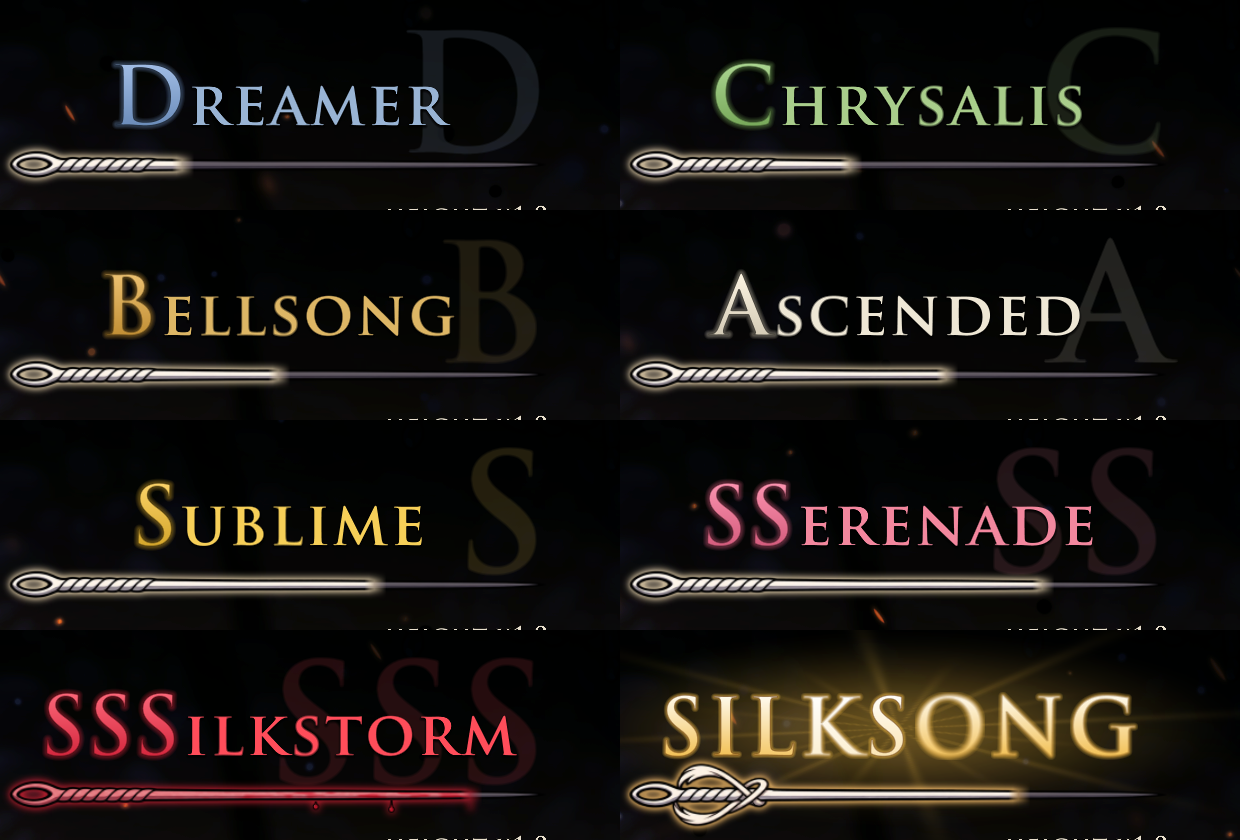
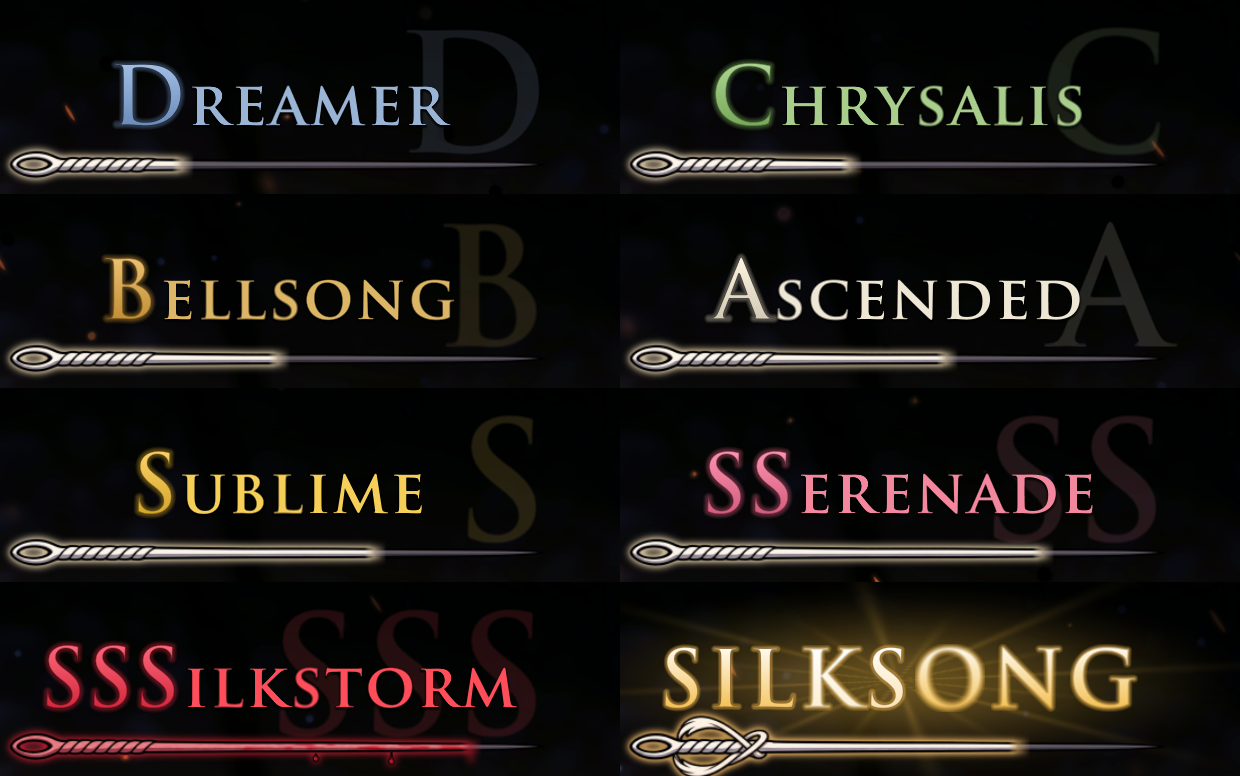
Docs: Show a real fight and new stills in the README

diff --git a/README.ru.md b/README.ru.md
@@ -1,5 +1,5 @@
 <p align="center">
-  <img src="docs/images/hero.jpg" alt="Хорнет делает пого на пилигриме на ранге SUBLIME, шкала стиля в правом верхнем углу" width="100%">
+  <img src="docs/images/hero.jpg" alt="Хорнет у заснеженной ограды на горе Фэй, шкала на SILKSONG в правом верхнем углу, в ленте RAMPAGE, GIT GUD и другие бонусы" width="100%">
 </p>
 
 <h1 align="center">Stylemeter</h1>
@@ -34,8 +34,9 @@ Stylemeter следит за тем, как сражается Хорнет, и 
 тает.
 
 <p align="center">
-  <img src="docs/images/climb.webp" alt="Цепочка пого на пилигриме поднимает шкалу с BELLSONG через ASCENDED и SUBLIME до SSERENADE, лента показывает каждый бонус" width="860">
-  <br><sub>Настоящая цепочка пого в игре: BELLSONG, ASCENDED, SUBLIME, SSERENADE, потом добивание.</sub>
+  <img src="docs/images/fight.webp" alt="Десять секунд боя на горе Фэй: брызги крови, когда шкала доходит до SSSILKSTORM, вспышка на SILKSONG, удар разрезает его пополам, и снова вспышка" width="860">
+  <br><sub>Настоящий бой на горе Фэй, сыгранный вручную: SSERENADE, брызги крови на SSSILKSTORM, вспышка на SILKSONG,
+  удар разрезает его пополам, и снова SILKSONG.</sub>
 </p>
 
 > **Бета.** Всё описанное ниже работает и проверено в игре, а правила подсчёта очков покрыты автотестами. Игроков
@@ -56,7 +57,8 @@ Stylemeter следит за тем, как сражается Хорнет, и 
 - **Награда за вершину:** одна единица шёлка за каждые пять секунд на SILKSONG (можно выключить).
 - **Настройки прямо в игре:** панель в Настройках с множителем очков и переключателем для каждого бонуса.
 - **Выглядит как часть игры:** рисованная игла, которая наполняется очками, названия рангов шрифтом игры,
-  окровавленная игла на SSSILKSTORM и божественное сияние на SILKSONG.
+  окровавленная игла на SSSILKSTORM и божественное сияние на SILKSONG. Два верхних ранга приходят и уходят
+  по-своему: кровь у SSSILKSTORM, свет и разрез у SILKSONG.
 - **Безопасно:** сохранения не трогаются, в сеть мод не выходит, а если обновление игры изменит то, что мод читает,
   выключится только зависящий от этого бонус.
 
@@ -108,15 +110,17 @@ flowchart LR
 
 ### Шкала на экране
 
-<img align="right" src="docs/images/feed.png" alt="Шкала на SSSILKSTORM и лента бонусов" width="420">
-
 - **Ранг** шрифтом игры, за ним крупная буквица.
 - **Игла** наполняется в пределах текущего ранга; на SSSILKSTORM она в крови, на SILKSONG превращается в рапиру.
 - **HEIGHT** показывает множитель высоты, **THREAD** натяжение нити последнего приёма.
 - **Лента** показывает последние бонусы, новые сверху; повтор складывается в `x3`. Цвет говорит о базовых очках:
   белый до 100, золотой от 100, розовый от 200, красный от 300.
+- **Два верхних ранга** приходят и уходят по-своему. SSSILKSTORM появляется с брызгами крови, а потерянный
+  стекает кровью; SILKSONG вспыхивает светом, а потерянный разрезается слешем пополам, и половинки падают.
 
-<br clear="right">
+<p align="center">
+  <img src="docs/images/shrine.jpg" alt="Хорнет перед алтарём со скамьёй, шкала на SILKSONG: RAMPAGE красным, GIT GUD белым, ниже золотые и розовые бонусы" width="860">
+</p>
 
 ### Немного из каталога
 

diff --git a/README.md b/README.md
@@ -1,5 +1,5 @@
 <p align="center">
-  <img src="docs/images/hero.jpg" alt="Hornet pogoing on a pilgrim at the rank SUBLIME, the style meter in the top right corner" width="100%">
+  <img src="docs/images/hero.jpg" alt="Hornet at a snowy gate on Mount Fay, the meter at SILKSONG in the top right corner with RAMPAGE, GIT GUD and other bonuses in its feed" width="100%">
 </p>
 
 <h1 align="center">Stylemeter</h1>
@@ -33,8 +33,9 @@ tool trick and boss win is a named bonus. Keep them varied and keep them coming,
 up rank by rank. Repeat the same move, get hit or stand idle, and it drains away.
 
 <p align="center">
-  <img src="docs/images/climb.webp" alt="A pogo chain on a pilgrim takes the meter from BELLSONG through ASCENDED and SUBLIME to SSERENADE, the feed lists every bonus" width="860">
-  <br><sub>A real pogo chain in game: BELLSONG, ASCENDED, SUBLIME, SSERENADE, then the kill.</sub>
+  <img src="docs/images/fight.webp" alt="Ten seconds of a fight on Mount Fay: blood splashes as the meter reaches SSSILKSTORM, light flares at SILKSONG, a hit slashes it in two, and it flares up again" width="860">
+  <br><sub>A real fight on Mount Fay, played by hand: SSERENADE, a splash of blood at SSSILKSTORM, a burst of light at
+  SILKSONG, a hit that slashes it in two, and SILKSONG again.</sub>
 </p>
 
 > **Beta.** Everything below works and has been played through, and the scoring rules have automated tests. It
@@ -55,7 +56,8 @@ up rank by rank. Repeat the same move, get hit or stand idle, and it drains away
 - **A reward for holding the top:** one silk for every five seconds at SILKSONG (can be turned off).
 - **Settings in the game:** a panel in Options with the points multiplier and a switch for every bonus.
 - **Looks like it belongs:** a hand-drawn needle that fills as you score, rank names in the game's own lettering,
-  a bloodied needle at SSSILKSTORM and a divine glow at SILKSONG.
+  a bloodied needle at SSSILKSTORM and a divine glow at SILKSONG. The top two ranks come and go in their own way:
+  blood for SSSILKSTORM, light and a slash for SILKSONG.
 - **Safe:** no save is touched, nothing goes online, and a game update that changes something the mod reads only
   switches off the bonus that needs it.
 
@@ -106,15 +108,17 @@ The meter does not drain in menus, cutscenes, dialogue, scene transitions or on 
 
 ### The meter on screen
 
-<img align="right" src="docs/images/feed.png" alt="The meter at SSSILKSTORM with its feed of bonuses" width="420">
-
 - **The rank** in the game's lettering, with its initial large behind it.
 - **The needle** fills with the current rank; at SSSILKSTORM it is bloodied, at SILKSONG it turns into the rapier.
 - **HEIGHT** shows the air multiplier, **THREAD** the tension of the move you just used.
 - **The feed** lists the latest bonuses, newest on top; a repeat stacks as `x3`. The colour tells the base points:
   white below 100, gold from 100, rose from 200, red from 300.
+- **The top two ranks** have entrances and exits of their own. SSSILKSTORM arrives in a splash of blood and, once
+  lost, runs off in blood; SILKSONG flares up in light and, once lost, is slashed in two and its halves fall.
 
-<br clear="right">
+<p align="center">
+  <img src="docs/images/shrine.jpg" alt="Hornet before a bench shrine, the meter at SILKSONG with RAMPAGE in red, GIT GUD in white and gold and rose bonuses below" width="860">
+</p>
 
 ### A taste of the catalog
 
